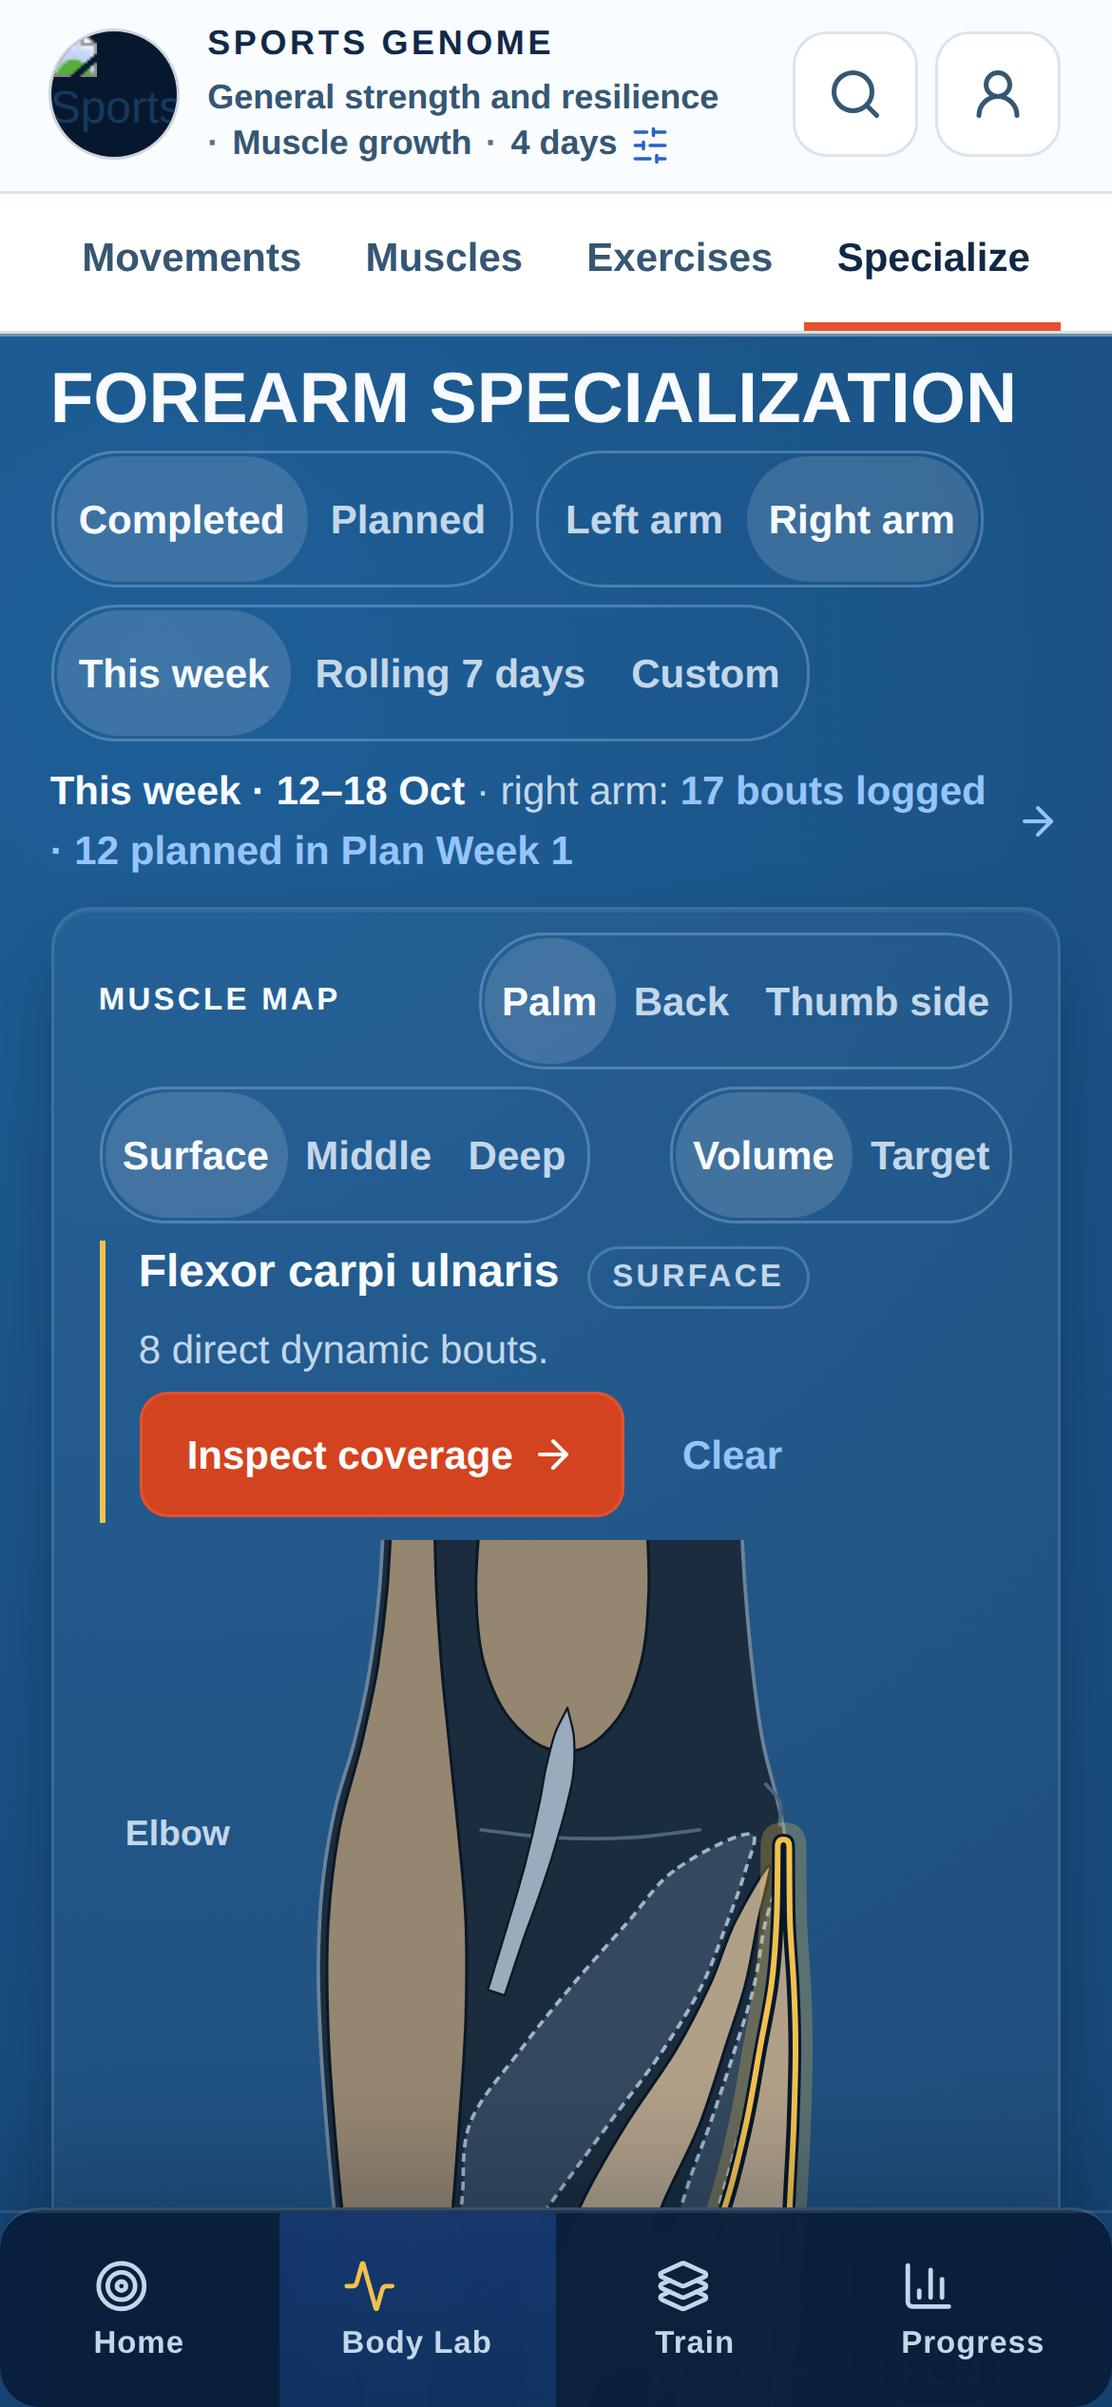
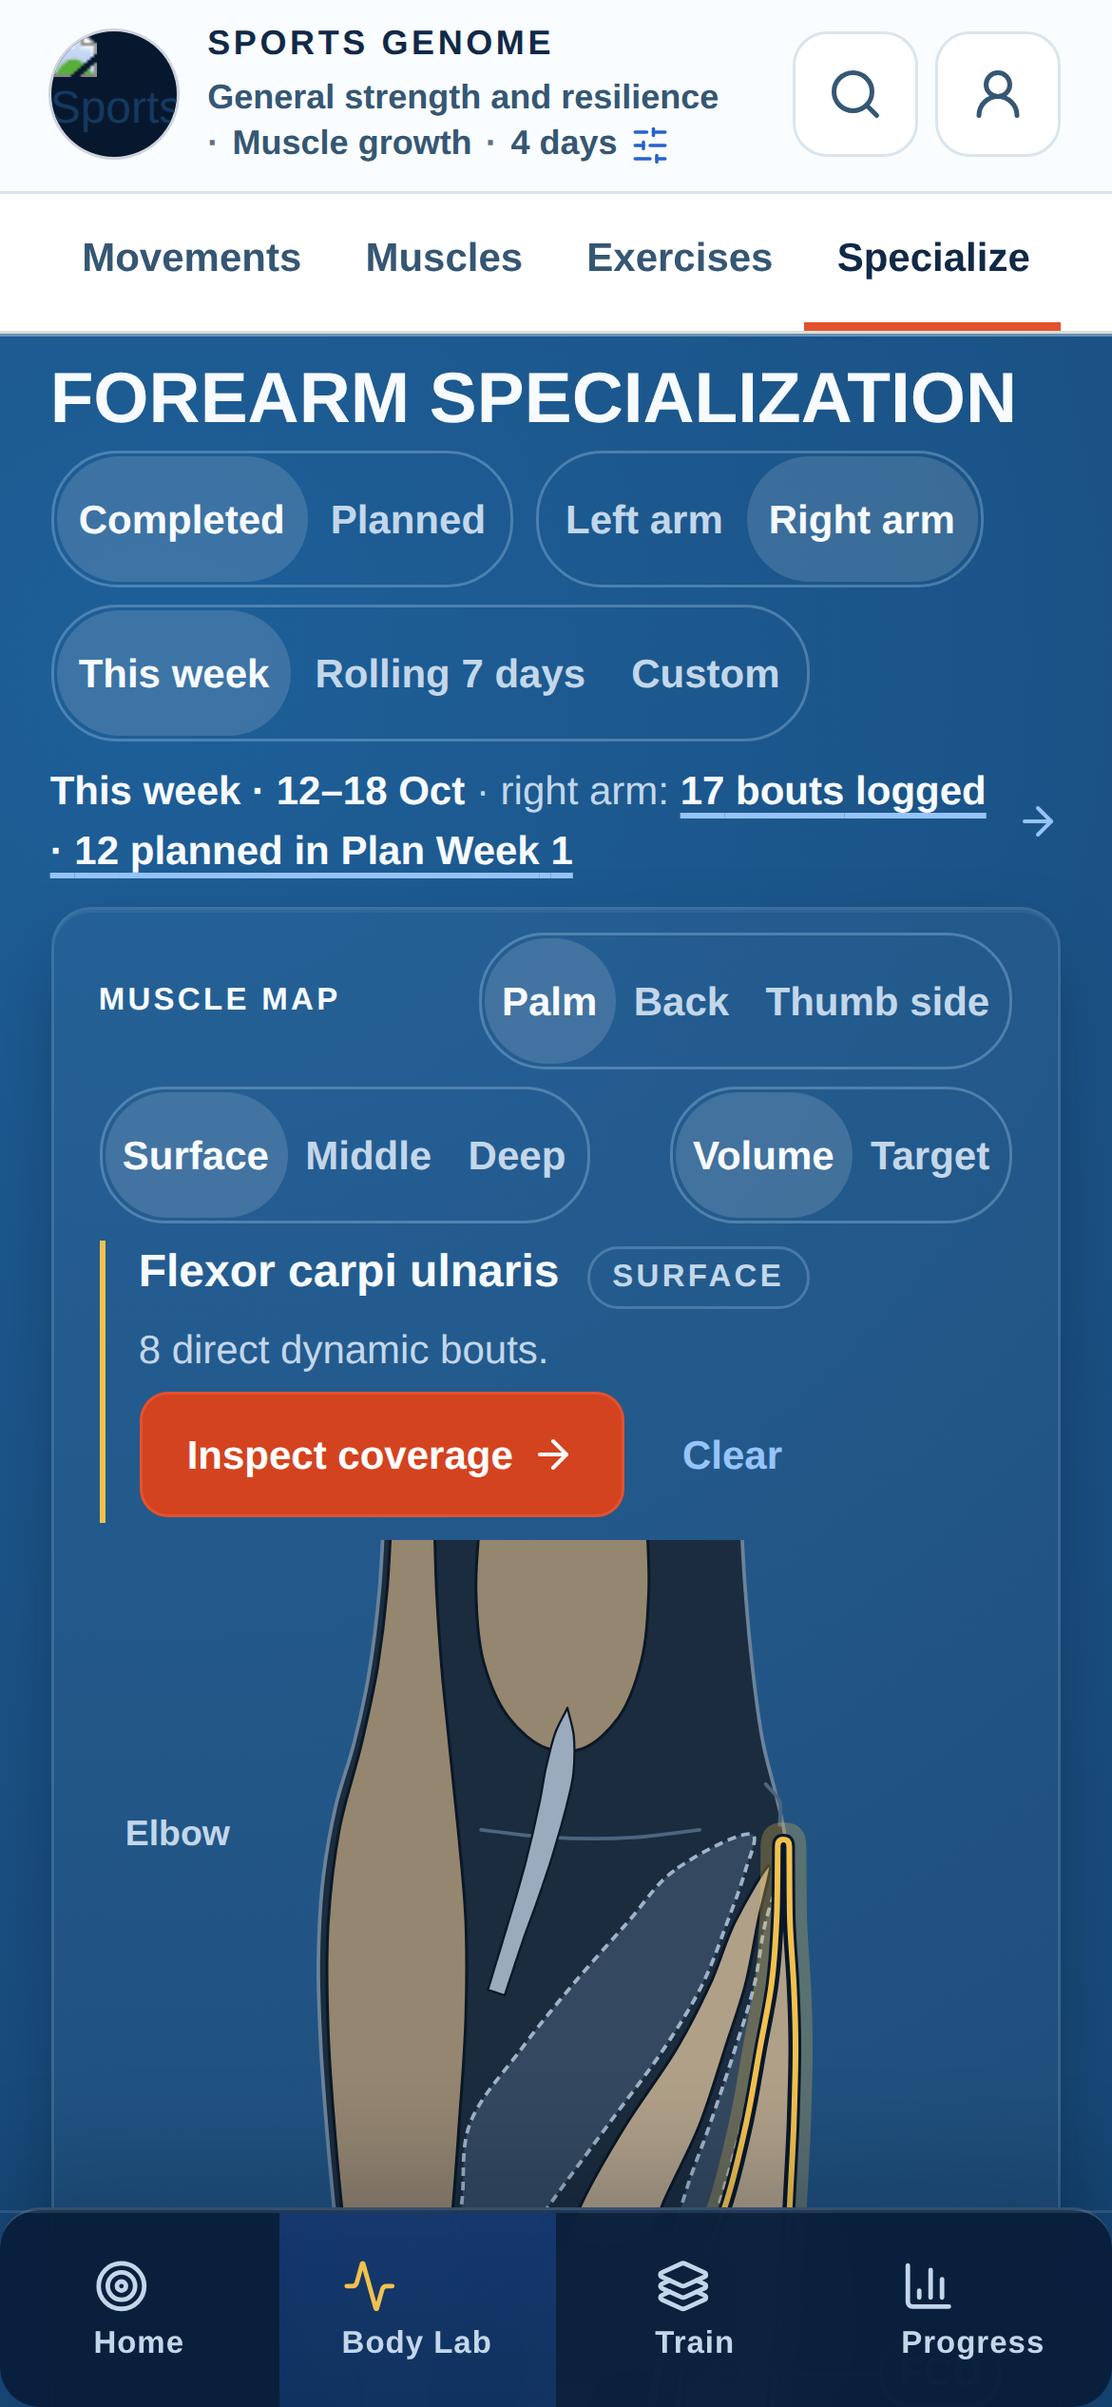
Specialize page follow-ups, review: the window line's pair reads at AA
- The pair (logged beside planned) was set in link ink, which reads 3.8:1
  on the Body Lab blue under the window line (measured #1d5c94 in headless
  Chromium at 375 and 390), under the 4.5:1 that 16 px text needs. Its words
  are now on-dark ink, underlined in the link colour, with the arrow in link
  colour (a non-text cue, 3:1). A render test pins the rule and the ratios.
- "Plan Week" and its number are joined by an escaped no-break space rather
  than an invisible literal one.
- 09-page.md gives the 375 x 667 numbers when the selected muscle has
  targets (each adds a line to the strip): with two, the drawing's top is
  12 px under the bar, and with Back to ... the strip runs 50 px under it.
  02-design.md section 7 and 09-page.md describe the pair's new ink.
- The two first-screen screenshots are retaken with the new ink; the other
  numbers in checks.json come out identical.

Claude-Session: https://claude.ai/code/session_01FVnPUDYaPCRVKb2WTVKYVF

Changed region(s): [[0.0615, 0.3432, 0.5231, 0.3744], [0.6154, 0.312, 0.8923, 0.3432]]

diff --git a/client/src/components/specialization/SpecializationPanel.render.test.ts b/client/src/components/specialization/SpecializationPanel.render.test.ts
@@ -1,4 +1,5 @@
 // @vitest-environment jsdom
+import { readFileSync } from "node:fs";
 import React, { createElement, useState } from "react";
 import { act, cleanup, fireEvent, render, screen, within } from "@testing-library/react";
 import { afterEach, beforeEach, describe, expect, it, vi } from "vitest";
@@ -343,6 +344,28 @@ describe("the window line's pair opens its sets (brief §1: every total opens th
   it("is plain words with no pair to open: another window, or a plan week that is not the one trained", async () => {
     render(createElement(Harness, { initial: { window: "7d" } }));
     expect(within(document.querySelector(".spz-window") as HTMLElement).queryByRole("button")).toBeNull();
+  });
+
+  it("reads at AA on the Body Lab blue under it: on-dark ink, underlined, never link ink", () => {
+    // The line sits on the page's own blue, lighter than the app's dark surfaces. Its lightest
+    // point was measured at #1d5c94 in headless Chromium (375 x 667 and 390 x 844), where link
+    // ink reads 3.8:1, under the 4.5:1 that 16 px text needs. The underline and the arrow may
+    // stay in link ink: a non-text cue needs 3:1.
+    const read = (path: string) => readFileSync(new URL(path, import.meta.url), "utf8");
+    const tokens = read("../../index.css");
+    const token = (name: string) => tokens.match(new RegExp(`${name}:\\s*(#[0-9a-f]{6})`, "i"))![1];
+    const luminance = (hex: string) => {
+      const [r, g, b] = [1, 3, 5].map((at) => parseInt(hex.slice(at, at + 2), 16) / 255).map((c) => (c <= 0.03928 ? c / 12.92 : ((c + 0.055) / 1.055) ** 2.4));
+      return 0.2126 * r + 0.7152 * g + 0.0722 * b;
+    };
+    const ratio = (a: string, b: string) => (Math.max(luminance(a), luminance(b)) + 0.05) / (Math.min(luminance(a), luminance(b)) + 0.05);
+    const ground = "#1d5c94";
+    const pair = read("./specialization.css").match(/\.spz-pair \{([^}]*)\}/)![1];
+    expect(pair).toMatch(/(^|;)\s*color: var\(--sg-text-on-dark\)/);
+    expect(pair).toMatch(/text-decoration: underline/);
+    expect(ratio(token("--sg-text-on-dark"), ground)).toBeGreaterThanOrEqual(4.5);
+    expect(ratio(token("--sg-link-on-dark"), ground)).toBeLessThan(4.5);
+    expect(ratio(token("--sg-link-on-dark"), ground)).toBeGreaterThanOrEqual(3);
   });
 });
 

diff --git a/client/src/components/specialization/SpecializationPanel.tsx b/client/src/components/specialization/SpecializationPanel.tsx
@@ -404,12 +404,12 @@ function SpecializationPage({ data, state, onStateChange, plan, catalog, equipme
       </div>
       {/* One line: the window, the arm, and (for this week) logged beside planned (design §4). The
           pair is a total, so it opens the sets behind it: with a pair the whole line is one
-          button (44 px tall, the pair in link ink and an arrow at its end), which keeps it to
-          two lines on a phone. */}
+          button (44 px tall, the pair underlined and an arrow at its end), which keeps it to
+          two lines on a phone. "Plan Week" and its number are joined by a no-break space. */}
       {pairShown
         ? <p className="spz-window"><button type="button" className="spz-window-open" onClick={() => setSheet({ kind: "bouts", list: "pair" })}><span><b>{interval.label}</b> · {armWord}: <span className="spz-pair">{state.mode === "planned"
           ? <><b>{plannedBouts}</b> bout{plannedBouts === 1 ? "" : "s"} planned · <b>{completedBouts}</b> logged this week</>
-          : <><b>{completedBouts}</b> bout{completedBouts === 1 ? "" : "s"} logged · <b>{plannedBouts}</b> planned in Plan Week{" "}{trainingWeek}</>}</span></span><ArrowRight className="h-4 w-4" aria-hidden="true" /></button></p>
+          : <><b>{completedBouts}</b> bout{completedBouts === 1 ? "" : "s"} logged · <b>{plannedBouts}</b> planned in Plan Week{"\u00a0"}{trainingWeek}</>}</span></span><ArrowRight className="h-4 w-4" aria-hidden="true" /></button></p>
         : <p className="spz-window"><b>{interval.label}</b> · {armWord}{state.mode === "planned" && !planInput ? (plan.ready ? ` · Week ${planWeek} has nothing planned yet` : " · your plan is loading") : ""}{noPairNote && <span className="spz-pair-note">: not the week you train from (Week {trainingWeek}), so there is no logged week to compare</span>}</p>}
     </div>
 

diff --git a/client/src/components/specialization/specialization.css b/client/src/components/specialization/specialization.css
@@ -46,11 +46,14 @@
 .spz-window { color: var(--sg-text-muted-on-dark); font-size: var(--sg-text-base); line-height: var(--sg-leading-body); }
 .spz-window b { color: var(--sg-text-on-dark); }
 /* With a pair (logged beside planned), a total, the line is one button that opens the sets
-   behind it: the pair in link ink and an arrow at the end, visible at rest; 44 px tall. */
+   behind it: the pair underlined and an arrow at the end, visible at rest; 44 px tall. The
+   pair's words are on-dark ink, not link ink: the Body Lab blue under this line is lighter
+   than the app's dark surfaces, and link ink reads only 3.8:1 on it (AA for 16 px text is
+   4.5:1). The underline and the arrow carry the link colour (3:1 is enough for them). */
 .spz-window-open { display: flex; align-items: center; justify-content: space-between; gap: .5rem; width: 100%; min-height: 2.75rem; color: inherit; font-size: inherit; line-height: inherit; text-align: left; }
 .spz-window-open > svg { flex: 0 0 auto; color: var(--sg-link-on-dark); }
 .spz-window-open:focus-visible { outline: 2px solid var(--sg-focus-on-dark); outline-offset: 2px; }
-.spz-pair { color: var(--sg-link-on-dark); font-weight: 700; font-variant-numeric: tabular-nums; }
+.spz-pair { color: var(--sg-text-on-dark); font-weight: 700; font-variant-numeric: tabular-nums; text-decoration: underline; text-decoration-color: var(--sg-link-on-dark); text-decoration-thickness: 2px; text-underline-offset: 3px; }
 .spz-pair b { color: inherit; font-weight: 800; }
 .spz-pair-note { color: var(--sg-text-muted-on-dark); }
 

diff --git a/docs/specialization-atlas/09-page.md b/docs/specialization-atlas/09-page.md
@@ -39,7 +39,7 @@ An entry point that names where it was pressed gets **Back to <that page>** at t
 ## Layout, phone first (390 × 844; checked at 375 × 667, 430 × 932 and 320, no horizontal overflow)
 
 1. The heading, on one line from 375 px, under **Back to …** when another page opened it. There is no eyebrow: the tab row right above already says Body Lab · Specialize.
-2. Controls in two rows: Completed · Planned beside Left arm · Right arm, then This week · Rolling 7 days · Custom (two date fields), or the plan weeks in Planned mode. Then one line: the window in words and, for this week, the pair design §4 asks for: this calendar week's logged work beside the plan week **being trained** (`trainingWeekFor`, the rule Home's next workout follows: an explicit choice, else the latest workout's plan week, else Week 1), never the week Plan happens to be showing: "This week · 12–18 Oct · right arm: 7 bouts logged · 9 planned in Plan Week 1". In Planned mode on that week: "…: 9 bouts planned · 7 logged this week". The pair is a total, so with a pair the whole line is one button (44 px tall, the pair in link ink, an arrow at its end, visible at rest) that opens its sets: this week's logged bouts on the arm, any with no arm recorded apart, then the plan week's as written (titled "7 logged · 9 planned"). On any other plan week there is no pair and the line is plain words: "…: not the week you train from (Week 1), so there is no logged week to compare". "Plan Week" and its number never part across lines. The muscle sheet says the same for its muscle. The trained week is also the plan week Planned mode opens on.
+2. Controls in two rows: Completed · Planned beside Left arm · Right arm, then This week · Rolling 7 days · Custom (two date fields), or the plan weeks in Planned mode. Then one line: the window in words and, for this week, the pair design §4 asks for: this calendar week's logged work beside the plan week **being trained** (`trainingWeekFor`, the rule Home's next workout follows: an explicit choice, else the latest workout's plan week, else Week 1), never the week Plan happens to be showing: "This week · 12–18 Oct · right arm: 7 bouts logged · 9 planned in Plan Week 1". In Planned mode on that week: "…: 9 bouts planned · 7 logged this week". The pair is a total, so with a pair the whole line is one button (44 px tall, the pair underlined and an arrow at its end, visible at rest; the words are on-dark ink with a link-colour underline, because link ink reads 3.8:1 on the Body Lab blue under this line and 16 px text needs 4.5:1) that opens its sets: this week's logged bouts on the arm, any with no arm recorded apart, then the plan week's as written (titled "7 logged · 9 planned"). On any other plan week there is no pair and the line is plain words: "…: not the week you train from (Week 1), so there is no logged week to compare". "Plan Week" and its number never part across lines. The muscle sheet says the same for its muscle. The trained week is also the plan week Planned mode opens on.
 3. Muscle map card, its controls in two rows: the heading beside the view (Palm · Back · Thumb side); then the layer (Surface · Middle · Deep, only those the drawing has for that view) beside Volume · Target. Each segment wraps to a row of its own rather than push the page sideways (at 320 every segment has its own row). Then **the selected muscle**, between the controls and the drawing, so a tap on the drawing changes the words right above it: name, layer, one sentence, its targets, and the one action, **Inspect coverage**, or **Add targeted exercise** when it has a reviewed mapping and no work in the window (which opens the add sheet on the best reviewed candidate, or the muscle's exercises when there is none), with Clear. With nothing selected it gives the region's distinct bouts on that arm, and how many more had no arm, with **See these sets**. Then the drawing and its key. The action appears once on the page: there is no second selected-muscle section below the card. Because the strip sits above the drawing, a tap on the drawing that changes the strip's height (the region line giving way to a name, a longer sentence, a target line) scrolls the page by the same amount, so the drawing stays where it was touched (measured: under half a pixel of movement, 0.4 px, at 390, 375, 430 and 320, where it moved 12, 12 and 33 px without this).
 4. Under the card, the counting line ("Each set counts once per muscle and once per arm…").
 5. The muscle list, most direct work first, in three groups (the region's muscles; nearby; upper-arm muscles credited here). Each row: name, abbreviation, a Deep/Middle badge, the non-zero parts in words, and one stacked bar on a fixed scale (full at 20 bouts; more keeps its number). A row opens the muscle sheet.
@@ -55,7 +55,7 @@ Where it lands, measured in headless Chromium emulating an iPhone (viewport, `is
 | 430 × 932 | 863 | 438–536 | 542 | the strip whole, and the drawing's top 321 px |
 | 320 × 568 | 499 | 601–699 | 705 | neither (every segment takes its own row and the heading two lines); no horizontal overflow |
 
-At 375 × 667 the strip and the drawing's top stay on the first screen in every state measured: Rolling 7 days (drawing 82 px), Planned on the trained week (59 px), opened from Review or the Muscles map with **Back to …** (15 px), and Custom with its two date fields (9 px). Every control in the top and the map card is at least 44 × 44 px, and nothing overflows at 320, 375, 390 or 430. Before the follow-ups the strip was at 600–704 and the drawing's top at 716 at both 390 × 844 and 375 × 667, so at 375 neither was on the first screen. What changed: the eyebrow went (the tab row names the page), the controls take two rows, the pair joined the window line, the map card's controls take two rows (view beside the heading; layer beside Volume · Target), and the gaps above the drawing are 6–8 px where they were 8–12. Screenshots and the numbers: `evidence/page-followups-2026-10-17/` (`checks.json`). The map screenshots in `evidence/page-fixes-2026-10-17/` predate this and show the earlier top of the page.
+At 375 × 667 the strip and the drawing's top stay on the first screen in every state measured: Rolling 7 days (drawing 82 px), Planned on the trained week (59 px), opened from Review or the Muscles map with **Back to …** (15 px), and Custom with its two date fields (9 px). They do not when the selected muscle has targets of its own, since each target adds a line to the strip: FCU with two targets puts the strip at 434–604 and the drawing's top 12 px under the bar, and with **Back to …** as well the strip runs 50 px under it; **Back to …** with Custom puts the drawing's top 35 px under the bar. A small scroll brings them up, and they stay put through taps. At 390 × 844 all of these keep the strip whole and 120 px or more of the drawing on the first screen. Every control in the top and the map card is at least 44 × 44 px, and nothing overflows at 320, 375, 390 or 430. Before the follow-ups the strip was at 600–704 and the drawing's top at 716 at both 390 × 844 and 375 × 667, so at 375 neither was on the first screen. What changed: the eyebrow went (the tab row names the page), the controls take two rows, the pair joined the window line, the map card's controls take two rows (view beside the heading; layer beside Volume · Target), and the gaps above the drawing are 6–8 px where they were 8–12. Screenshots and the numbers: `evidence/page-followups-2026-10-17/` (`checks.json`). The map screenshots in `evidence/page-fixes-2026-10-17/` predate this and show the earlier top of the page.
 
 ## Choices made inside the design
 

diff --git a/docs/specialization-atlas/02-design.md b/docs/specialization-atlas/02-design.md
@@ -95,7 +95,7 @@ Tests for `shared/` code live under `client/src/lib/specialization/` (vitest doe
 
 **Phone layout (390 × 844 first; the selected muscle and the top of the drawing are on the first screen at 375 × 667 and 430 × 932 too):**
 1. Heading "Forearm specialization", on one line from 375 px, under "Back to …" when another page opened it. The tab row above it already names Body Lab · Specialize, so there is no eyebrow. What is counted is said under the map card.
-2. Controls in two rows: Completed / Planned beside Left / Right arm; then the window (This week · Rolling 7 days · Custom, with two date fields for Custom), or the plan weeks in Planned mode. Then one line: the window in words, the arm, and for this week the pair from §4 (logged beside planned). The pair is a total, so with a pair the whole line is one button (44 px tall, the pair in link ink, an arrow at its end) that opens the sets behind it: this week's logged bouts on the arm (and any with no arm recorded), then the plan week's.
+2. Controls in two rows: Completed / Planned beside Left / Right arm; then the window (This week · Rolling 7 days · Custom, with two date fields for Custom), or the plan weeks in Planned mode. Then one line: the window in words, the arm, and for this week the pair from §4 (logged beside planned). The pair is a total, so with a pair the whole line is one button (44 px tall, the pair underlined in link colour with an arrow at its end; its words stay on-dark ink, which reads at AA on the Body Lab blue where link ink does not) that opens the sets behind it: this week's logged bouts on the arm (and any with no arm recorded), then the plan week's.
 3. Diagram card, its controls in two rows: the heading beside the view (Palm · Back · Thumb side); the layer (Surface · Middle · Deep, as each view has them: the palm side has a middle layer, FDS) beside the map (Volume · Target). Each segment wraps to a row of its own rather than push the page sideways. Thumb side and pinky side labelled on the drawing, mirrored for the left arm. Fixed bins with a numeric legend: 0 · 1–2 · 3–5 · 6–9 · 10–14 · 15+ bouts, on the existing `--sg-exposure-*` ramp (never the rank or role colours). Hatching means mapping not reviewed; an empty outline means mapped, no work. Target mode bins: under 25 %, 25–49 %, 50–74 %, 75–99 %, 100 % and over, with the number always shown.
 4. Selected muscle, inside the card between its controls and the drawing: name, layer badge, one exposure sentence, its targets, and one CTA: "Inspect coverage" (opens the sheet), or "Add targeted exercise" when it has no work in the window. A tap on the drawing that changes this strip's height scrolls the page by as much, so the drawing stays under the finger.
 5. Muscle list, sorted by direct bouts: name, layer badge, a stacked bar (direct, other dynamic, holds, incidental) and numbers. Deep muscles are marked "Deep".
